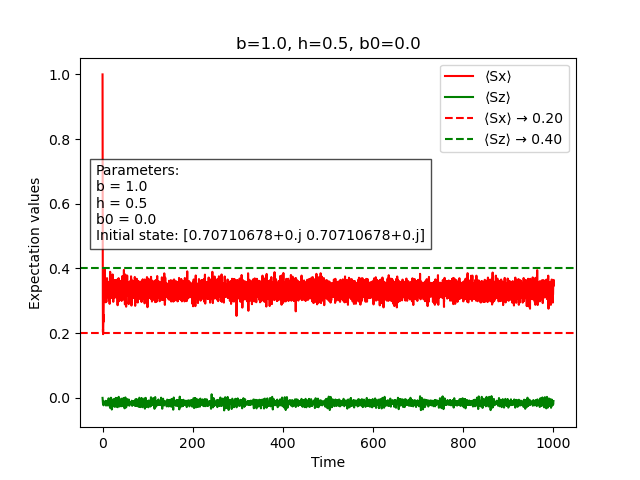
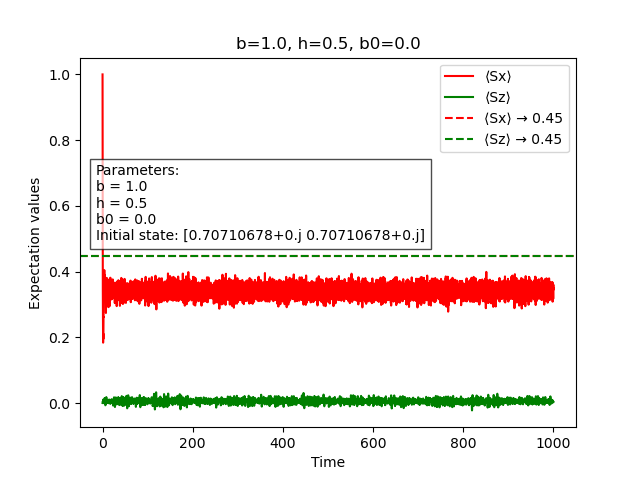
more

diff --git a/tip.py b/tip.py
@@ -81,8 +81,8 @@ def simulate(parameters):
     # Calculate pointer state expectations
     # nx0 = h / np.sqrt(b0 * b0 + h * h)
     # nz0 = b0 / np.sqrt(b0 * b0 + h * h)
-    nx0 = h / np.sqrt(b * b + h * h)
-    nz0 = b / np.sqrt(b * b + h * h)
+    nx0 = h / (b + h)
+    nz0 = b / (b + h)
 
     sn0 = sx * nx0 + sz * nz0
     sx_inf = expect(sn0, psi0)
